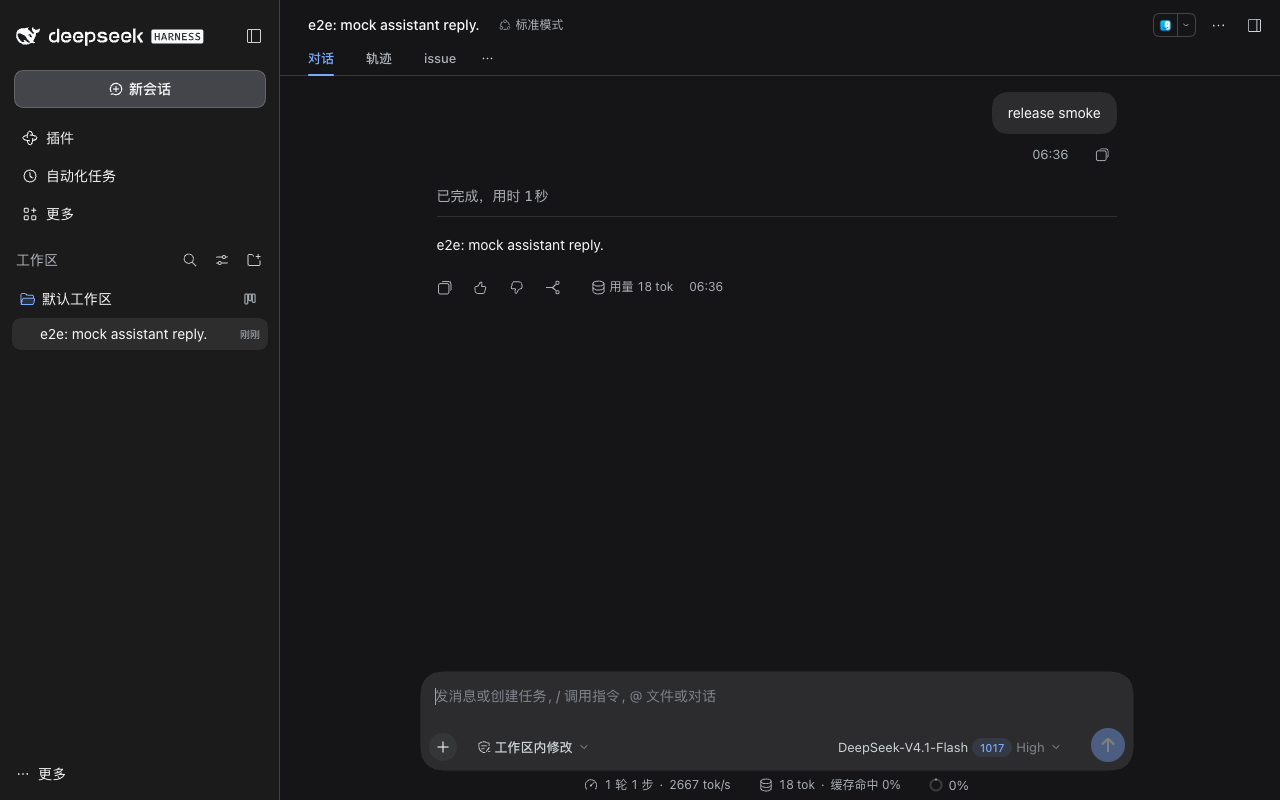
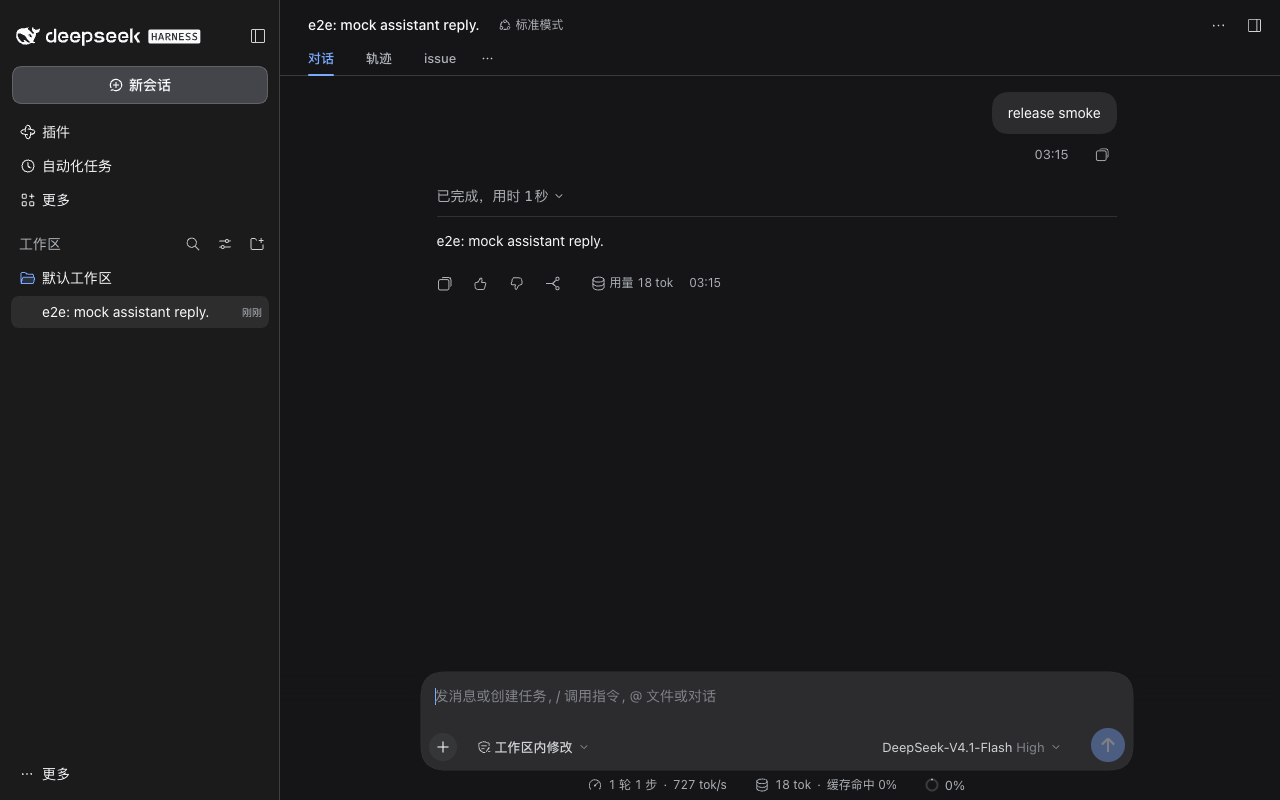
docs(release): post-publish evidence for 1.4.0
Published @ceasarxuu/dsh-github-projects@1.4.0 to npm (sha1 a05d5ce0). Then ran
the post-publish gate, scripts/e2e/release-smoke.mjs against the registry spec
rather than a local checkout — no --patch overlay, the plugin comes from the
profile's installed package:

  install   @1.4.0 into a throwaway profile from npm          ok
  profile   bundles include the plugin, dependency 1.4.0      ok
  boot      dsh web healthy, gh 2.103.3 / account ceasarXuu   ok
  tabs      对话 / 轨迹 / issue, workspace entry present       ok
  read-only writes.allowed=false, moveActions=0, moveMenus=0  ok
  console   0 errors, 0 exceptions, 0 warnings                ok
  PASS

15-published-install.png is regenerated by that run, as the 1.0.2 release did.
The workspace board icon is absent from the shot because it is now
hover-revealed; the harness still finds the button by its aria label.

GitHub Pages is enabled (main /docs) and the first build is green:
https://ceasarxuu.github.io/dsh-github-projects/ — linked from both READMEs.

diff --git a/README.md b/README.md
@@ -10,7 +10,7 @@ calls GitHub directly. **Read-only by default**: every write sits behind a singl
 <p align="center"><em>Open a workspace and the board binds itself from the checkout's <code>origin</code> remote.</em></p>
 
 > Third-party plugin, not an official DeepSeek / DeepSeek Harness component.
-> Release notes live in [CHANGELOG.md](CHANGELOG.md).
+> Release notes live in [CHANGELOG.md](CHANGELOG.md). One-page site with the screens: <https://ceasarxuu.github.io/dsh-github-projects/>.
 
 > The panel management described below shipped in **1.4.0**; see [CHANGELOG.md](CHANGELOG.md).
 

diff --git a/README.zh.md b/README.zh.md
@@ -15,7 +15,7 @@
 <p align="center"><em>打开一个工作区，看板会按该 checkout 的 <code>origin</code> remote 自动绑定。</em></p>
 
 > 第三方插件，非 DeepSeek / DeepSeek Harness 官方组件。
-> 版本变更记录见 [CHANGELOG.md](CHANGELOG.md)。
+> 版本变更记录见 [CHANGELOG.md](CHANGELOG.md)。带截图的单页站点：<https://ceasarxuu.github.io/dsh-github-projects/>。
 
 > 下面描述的右侧栏项目管理随 **1.4.0** 发布；变更记录见 [CHANGELOG.md](CHANGELOG.md)。
 
